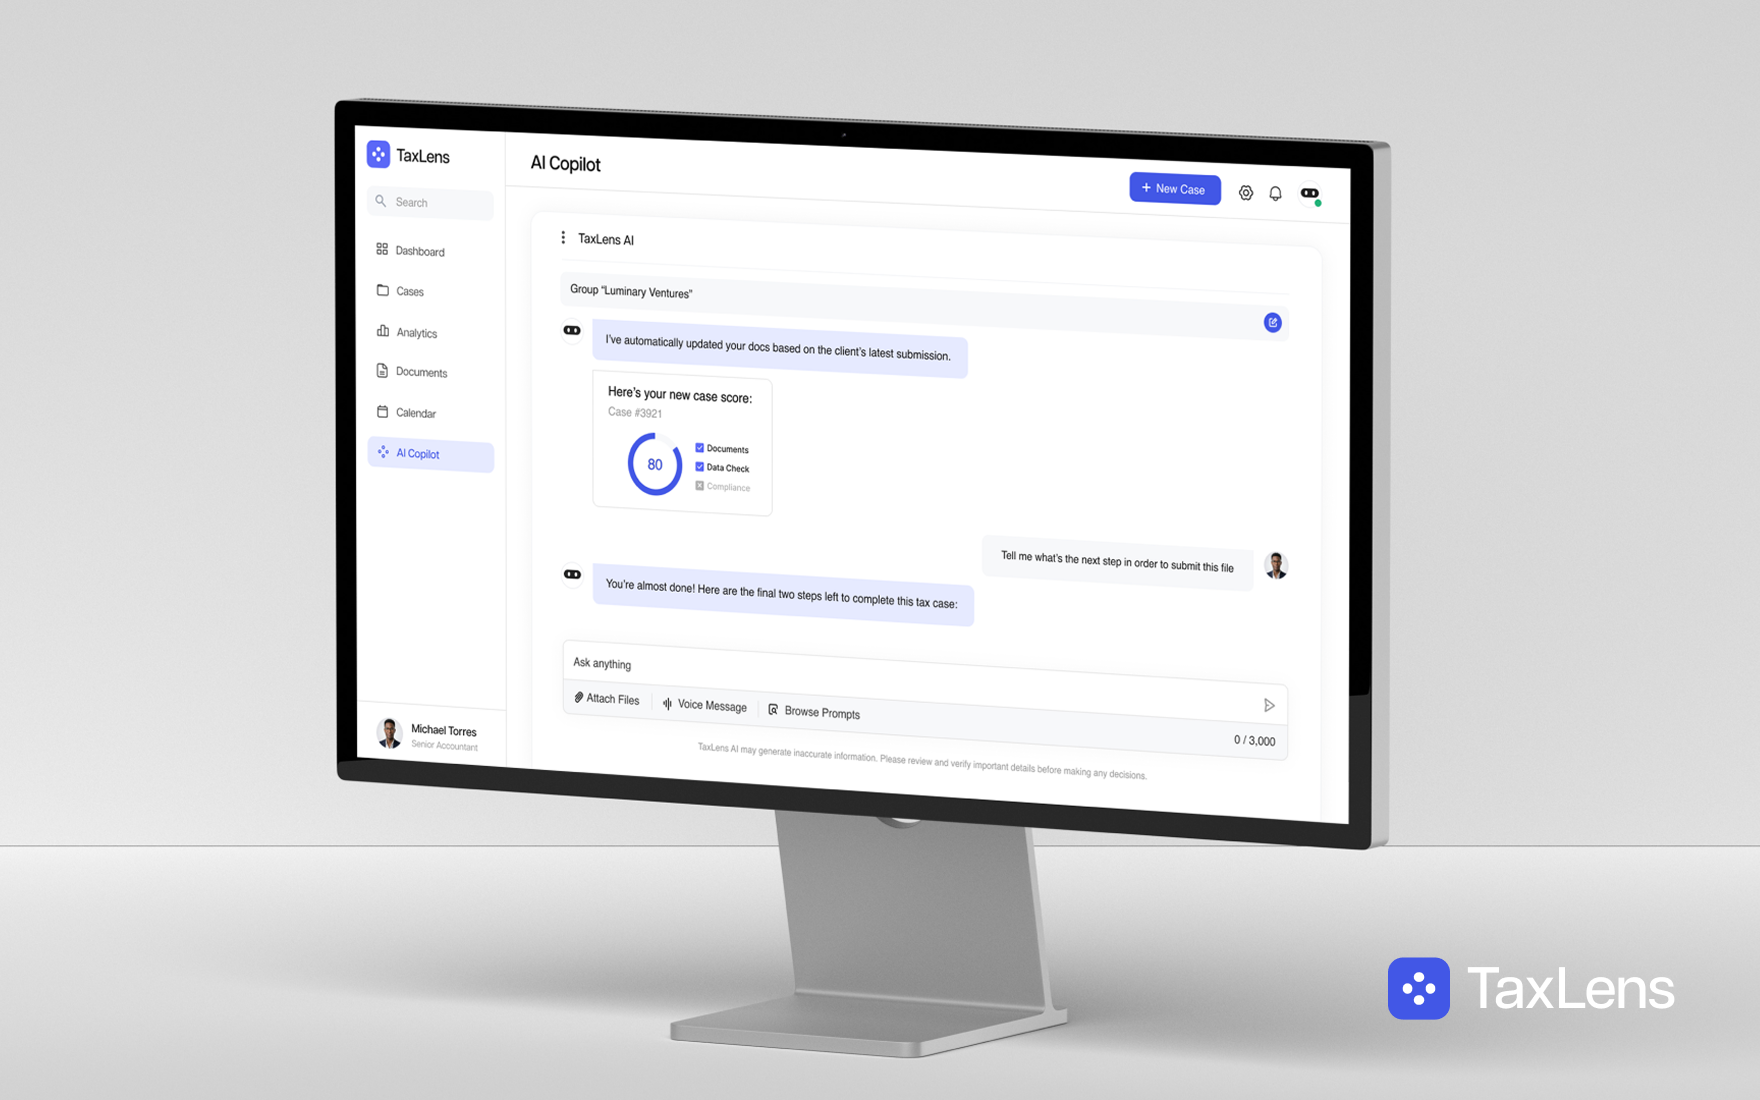
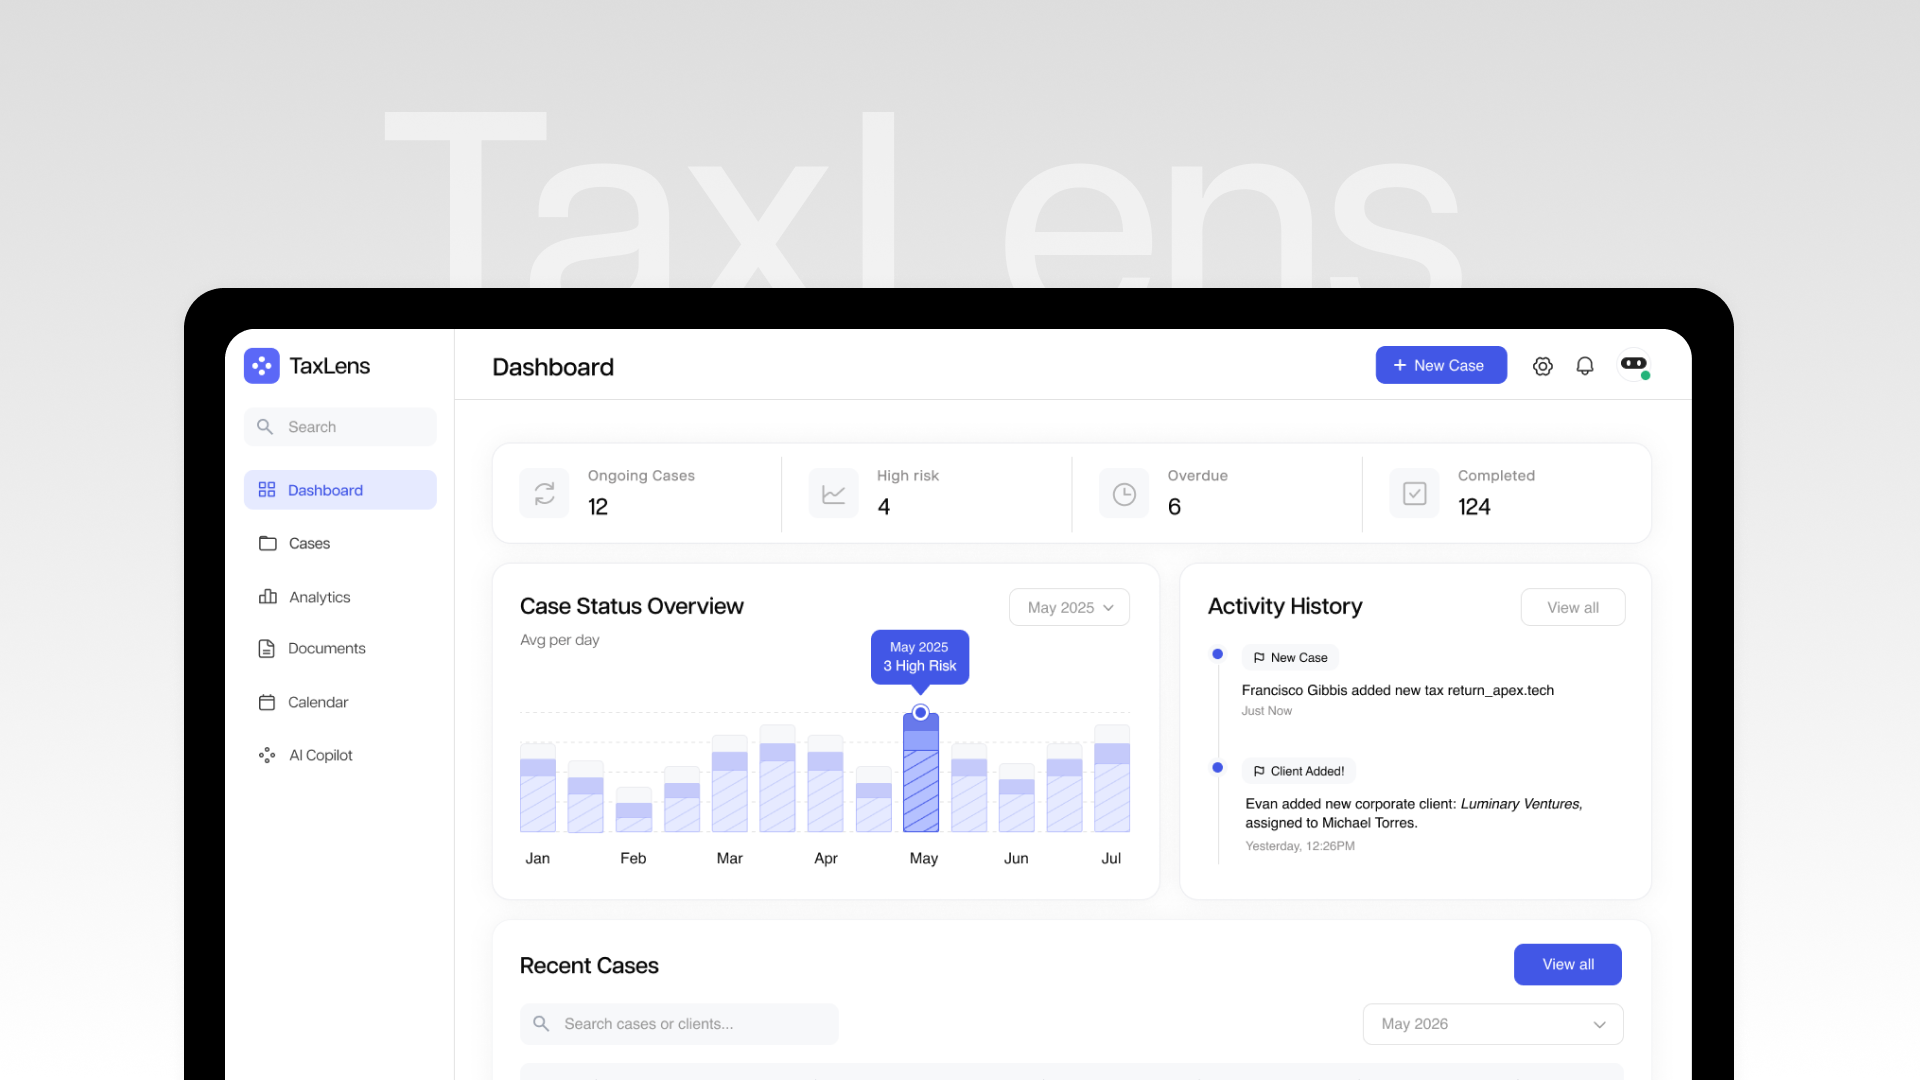
commit may 8

diff --git a/heynike.html b/heynike.html
@@ -536,18 +536,18 @@
             </div>
 
             <!-- Hero image -->
-            <div class="img-full">
+            <div class="img-full" id="context">
                 <img src="assets/images/Website_Images/Nike/0-1.png" alt="Hey Nike">
             </div>
-            <div class="img-full video">
+            <div class="img-full video" id="context">
                 <video src="assets/images/Website_Images/Nike/1.mov" autoplay loop muted playsinline></video>
             </div>
 
-            <div class="img-full">
+            <div class="img-full" id="context">
                 <img src="assets/images/Website_Images/Nike/Main.png" alt="Hey Nike">
             </div>
 
-            <div class="img-full">
+            <div class="img-full" id="context">
                 <img src="assets/images/Website_Images/Nike/1.png" alt="Hey Nike">
             </div>
 
@@ -614,32 +614,40 @@
         const sidebarLinks = document.querySelectorAll('.sidebar-nav a');
         const sidebarIds = [...sidebarLinks].map(a => a.getAttribute('href').slice(1));
 
-        // collect ALL elements with each sidebar id, not just the first
-        const sectionGroups = {};
-        sidebarIds.forEach(id => {
-            sectionGroups[id] = document.querySelectorAll('[id="' + id + '"]');
-        });
+        // get FIRST element with each id (use getElementById for first-only)
+        const sectionEls = sidebarIds
+            .map(id => document.getElementById(id))
+            .filter(Boolean);
 
-        function updateSidebar() {
-            let current = sidebarIds[0];
-            // check each section group in order
-            for (let i = 0; i < sidebarIds.length; i++) {
-                const id = sidebarIds[i];
-                const els = sectionGroups[id];
-                if (els.length > 0 && els[0].getBoundingClientRect().top <= 160) {
-                    current = id;
-                }
-            }
+        function setActive(id) {
             sidebarLinks.forEach(link => {
-                link.classList.remove('active');
-                if (link.getAttribute('href') === '#' + current) {
+                if (link.getAttribute('href') === '#' + id) {
                     link.classList.add('active');
+                } else {
+                    link.classList.remove('active');
                 }
             });
         }
 
-        window.addEventListener('scroll', updateSidebar);
-        window.addEventListener('load', updateSidebar);
+        function onScroll() {
+            const triggerY = 200;
+            let activeId = sectionEls[0] ? sectionEls[0].id : null;
+            for (let i = 0; i < sectionEls.length; i++) {
+                const rect = sectionEls[i].getBoundingClientRect();
+                if (rect.top <= triggerY) {
+                    activeId = sectionEls[i].id;
+                } else {
+                    break;
+                }
+            }
+            if (activeId) setActive(activeId);
+        }
+
+        window.addEventListener('scroll', onScroll, { passive: true });
+        window.addEventListener('load', onScroll);
+        window.addEventListener('resize', onScroll);
+        document.addEventListener('DOMContentLoaded', onScroll);
+        onScroll();
         // slideshow
         document.querySelectorAll('.slideshow').forEach(slideshow => {
             const imgs = slideshow.querySelectorAll('img');
